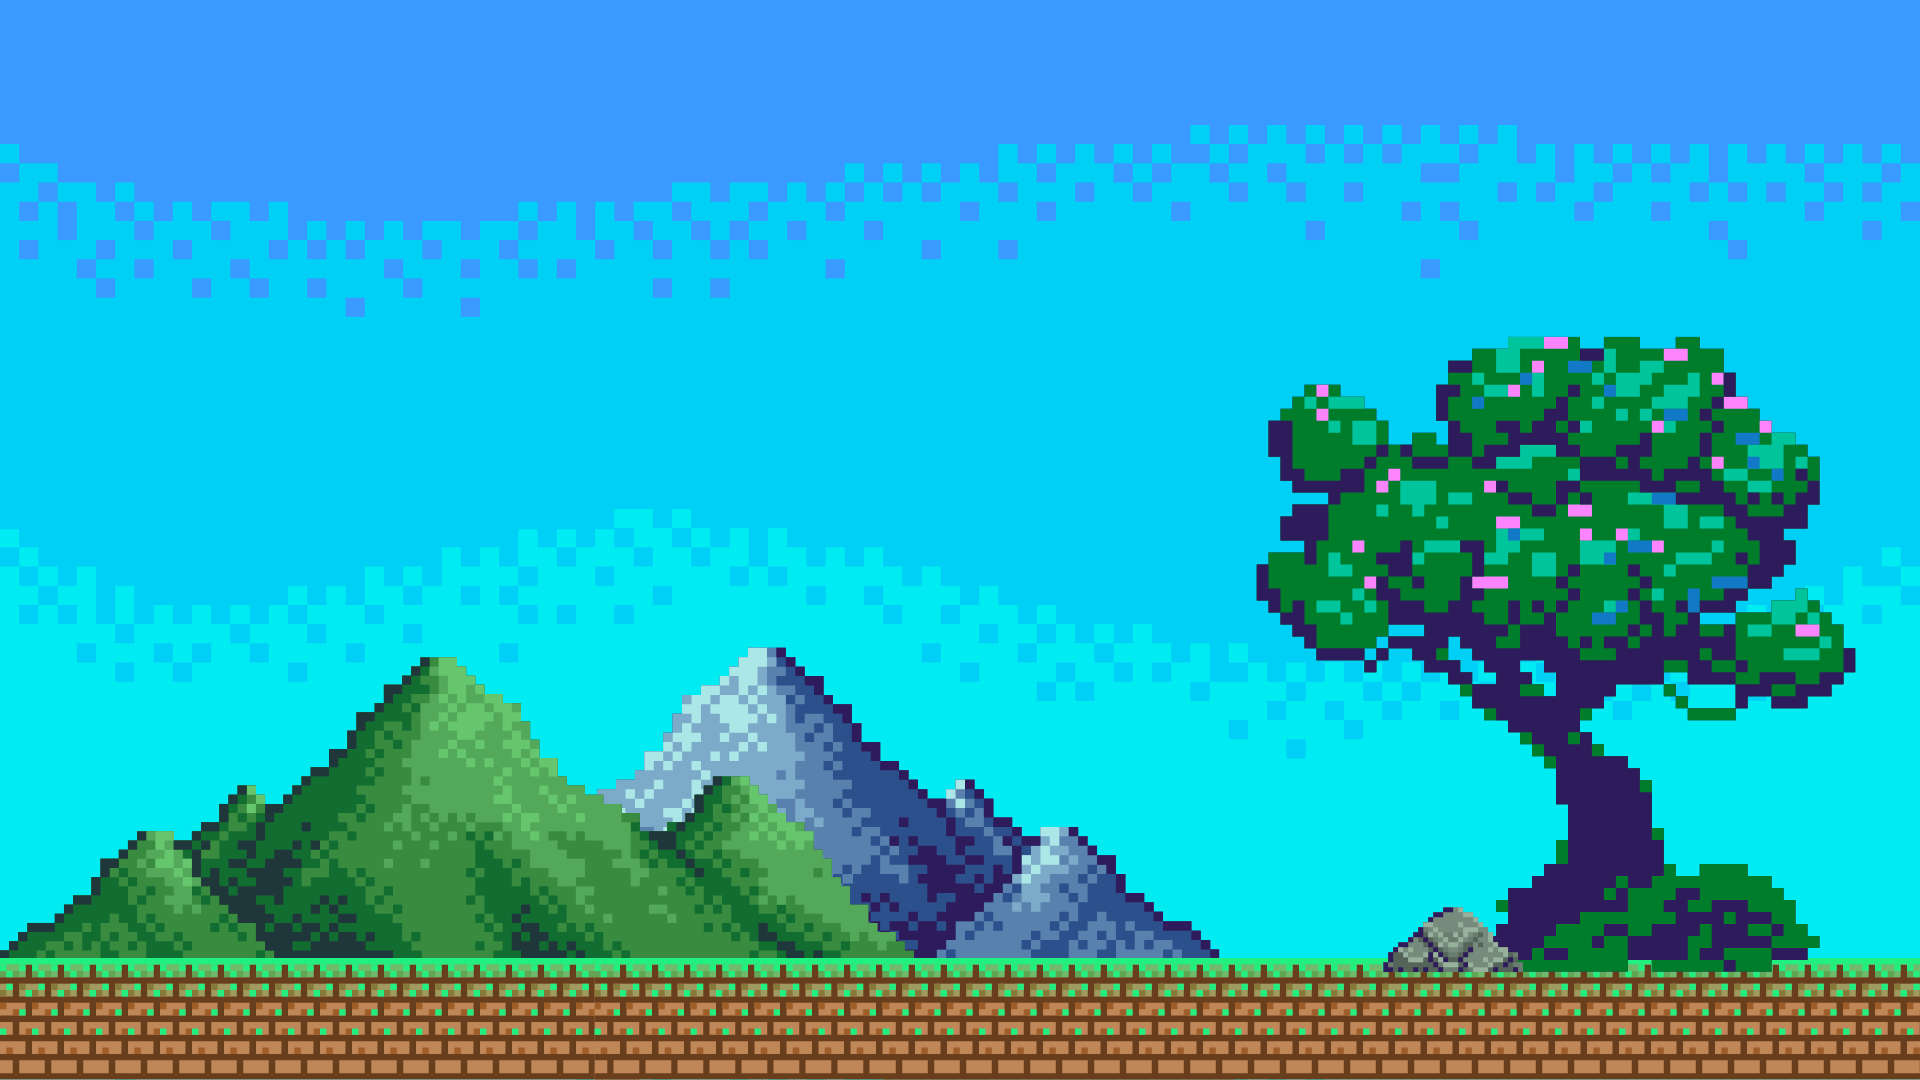
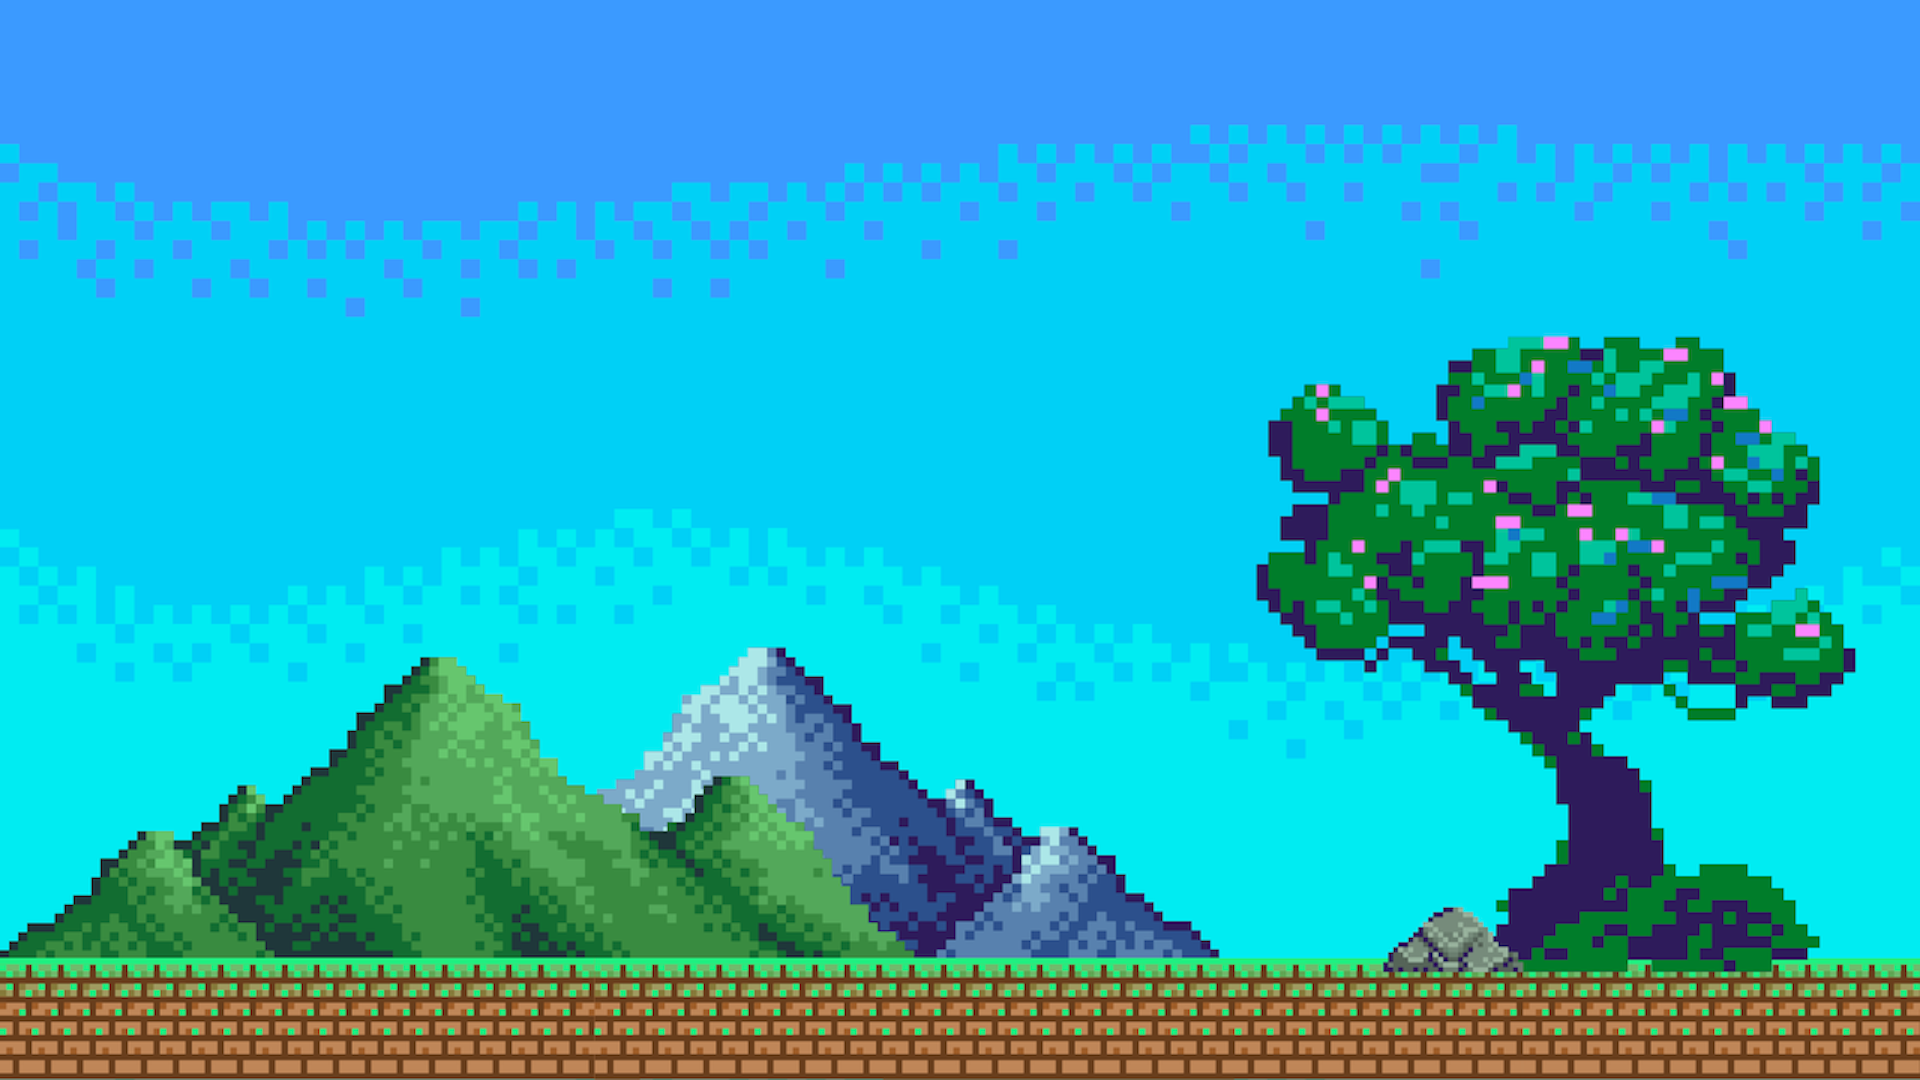
updateeeeeee

diff --git a/src/scenes/GameScene.js b/src/scenes/GameScene.js
@@ -7,7 +7,8 @@ let keyA;
 let keyS;
 let keyD;
 let hearts;
-let heartScore =0;
+let heartScore =3;
+let heartDisplay;
 let cursors;
 class GameScene extends Phaser.Scene {
     constructor(test) {
@@ -29,13 +30,13 @@ class GameScene extends Phaser.Scene {
     create() {
 
         //bg
-        background = this.add.image(800,500,'bg');
+        background = this.add.image(960,540,'bg');
 
         //platform
         platforms = this.physics.add.staticGroup();
-        platforms.create(800, 980, 'platform').refreshBody();
-        platforms.create(1100,900,'smallPlatform');
-        platforms.create(450,720,'tinyPlatform');
+        platforms.create(960, 1020, 'platform').refreshBody();
+        platforms.create(1100,920,'smallPlatform');
+        platforms.create(480,720,'tinyPlatform');
 
         //slime
         slime = this.physics.add.sprite(350, 860, 'slime').setScale(0.5);
@@ -85,6 +86,8 @@ class GameScene extends Phaser.Scene {
         });
         this.physics.add.collider(hearts, platforms);
         this.physics.add.overlap(slime, hearts, this.collectHeart);
+
+        heartDisplay = this.add.text(16, 16, 'score: 0', { fontSize: '32px', fill: '#000' });
     }
 
     update(delta, time) {
@@ -101,7 +104,7 @@ class GameScene extends Phaser.Scene {
             slime.anims.play('slimeRight', false); // waiting for spritesheet
         }
         if(keyW.isDown&&slime.body.touching.down) {
-            slime.setVelocityY(-480);
+            slime.setVelocityY(-500);
             slime.anims.play('slimeleft', true);
         }
     }

diff --git a/src/main.js b/src/main.js
@@ -10,7 +10,7 @@ const config = {
     roundPixels: true,
     parent: 'content',
     width: 1920,
-    height: 1020,
+    height: 1080,
     physics: {
         default: 'arcade',
         arcade: {
